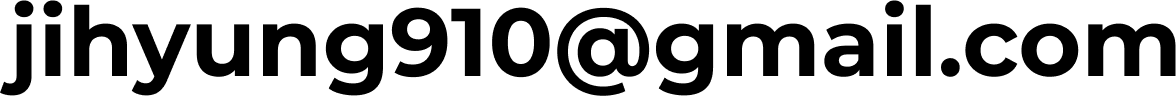
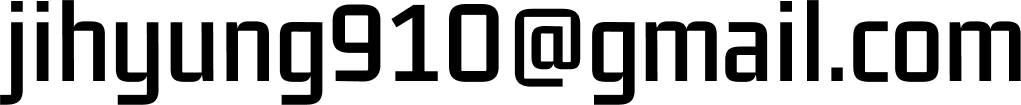
mobile version font test

diff --git a/css/style.css b/css/style.css
@@ -217,8 +217,7 @@ p {
 }
 
 .profile .contact .info h5 .phone {
-    width: 25vw !important;
-    margin-bottom: -9px !important;
+    width: 30vw !important;
 }
 
 @keyframes fadein {
